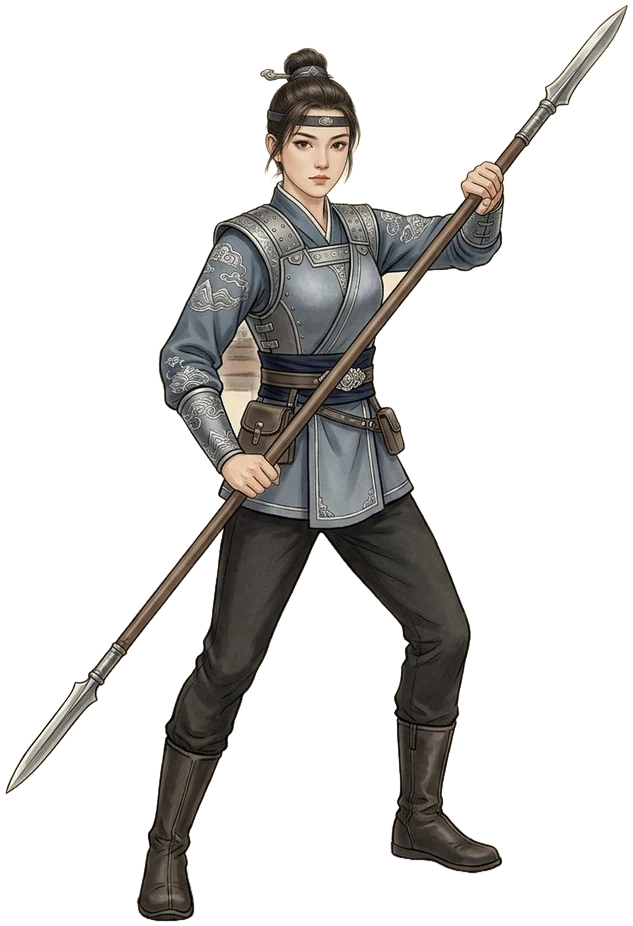
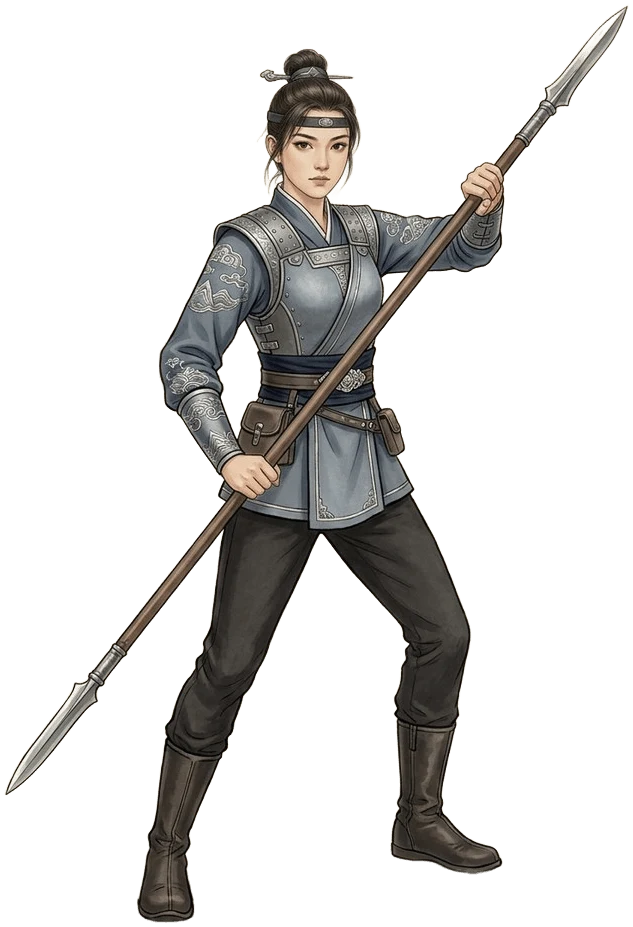
fix(assets): re-extract 14 cutouts with trapped background holes and remove binary_fill_holes

diff --git a/scripts/extract_npc_cutouts.py b/scripts/extract_npc_cutouts.py
@@ -120,7 +120,8 @@ def _process_one(task: tuple[str, str]) -> tuple[str, bool, str]:
         u2_boost = np.where(m_is > 246, np.maximum(m_u2, 160.0), m_u2)
         comb = np.sqrt((m_is / 255.0) * (u2_boost / 255.0)) * 255.0
 
-        solid = binary_fill_holes(comb > 135)
+        # Avoid binary_fill_holes here: closed loops formed by spears/bows/arms trap background patches.
+        solid = comb > 135
         labeled, ncomp = label(comb > 48)
         if ncomp > 1:
             counts = np.bincount(labeled.ravel())
